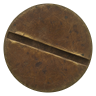
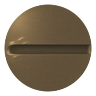
Radar worn parts (SPEC-PARTS, assets-gpt-2): seven meter frames and toggle pairs bound to channels A-G by id, shared meter glass, PPI bezel (drawn rim and bevel dropped under it, ticks after it) and glass, nixie shell and glass; the 11 stock plates replaced; three non-glowing colours capped at the d
- 26 new pictures in assets/radar and MATERIAL_FILES (43 in all), the 11 stock files GPT's approved screen used over the same names; build-local ships them
- CHANNEL_PARTS: vocals..drums -> frame / up / down (VOX's toggles have no -a); the toggle picture follows up = !off, hit areas and out.levers unchanged; out.toggles names the picture drawn
- each part falls back to its old drawing when its picture is not in (meter: its frame; toggle: both pictures; bezel; glass; shell; nixie glass)
- brightness cap at #e7dfc4 for what does not glow: first bezel tick #f0ead2 -> #e4dfc8, balance horizon #e8e2cc -> #e5dfc9, fifths key names #ece5cc -> #e5dfc6
- tests: radar-parts.test.cjs (mapping, toggling, bezel order, nixie cells, fallback), materials count 17 -> 43

diff --git a/source/scoreview/score-radar.js b/source/scoreview/score-radar.js
@@ -163,7 +163,21 @@
     plateKeys: 'plate-keys.png', plateTele: 'plate-teleprinter.png', paperDial: 'paper-dial.png', paperTape: 'paper-tape.png',
     screwSlot: 'screw-slot.png', screwCross: 'screw-cross.png', screwBrass: 'screw-brass.png', glass: 'glass-smudge.png',
     // Batch 4: tape stock for the hand-written names, the calibration tag, the cover plate over a removed dial.
-    stickerA: 'sticker-a.png', stickerB: 'sticker-b.png', stickerC: 'sticker-c.png', tagCal: 'tag-cal.png', coverPlate: 'cover-plate.png'});
+    stickerA: 'sticker-a.png', stickerB: 'sticker-b.png', stickerC: 'sticker-c.png', tagCal: 'tag-cal.png', coverPlate: 'cover-plate.png',
+    // Batch 5 (SPEC-PARTS, assets-gpt-2/HANDOFF.md): the parts worn by hands in use. A meter frame and a toggle pair
+    // for each of the seven channels (the channel keeps its own wear: GUITAR most, DRUMS least), one meter glass shared
+    // by all seven, the PPI bezel and its glass, a nixie shell and glass laid over each tube digit.
+    ...Object.fromEntries(['a', 'b', 'c', 'd', 'e', 'f', 'g'].flatMap((v, i) => {
+      const k = v.toUpperCase(), suffix = i ? '-' + v : '';   // VOX's toggle files have no '-a'
+      return [['meterFrame' + k, `meter-frame-${v}.png`], ['toggleUp' + k, `toggle-up${suffix}.png`], ['toggleDown' + k, `toggle-down${suffix}.png`]];
+    })),
+    meterGlass: 'meter-glass.png', ppiBezel: 'ppi-bezel.png', ppiGlass: 'ppi-glass.png', nixieShell: 'nixie-shell.png', nixieGlass: 'nixie-glass.png'});
+  // The physical channel each frame and toggle pair belongs to (A to G, by channel id): they follow the channel through
+  // song changes, volume and mute.
+  const CHANNEL_PARTS = Object.freeze(Object.fromEntries(CATS.map((cat, i) => {
+    const k = 'ABCDEFG'[i];
+    return [cat.id, Object.freeze({frame: 'meterFrame' + k, up: 'toggleUp' + k, down: 'toggleDown' + k})];
+  })));
   const MATERIALS = {};
   // The layout audit's record (null when off) and the frame's placement, see write().
   let auditSink = null, auditView = null, auditClip = null;
@@ -872,6 +886,19 @@
       p.drawImage(smudge, sx, sy, cw, ch, x, y, cw / k, ch / k);
       p.restore();
     }
+    // The shadow a worn meter frame's lip throws on the paper (under the printing and the needle), from the same
+    // upper-left light: 4.3 deep at the top, 3.2 left, 2.1 bottom, 2 right.
+    function paperLip(x, y, w, h) {
+      p.save(); p.beginPath(); p.roundRect(x, y, w, h, 2); p.clip();
+      for (const [x0, y0, x1, y1, rx, ry, rw, rh, density] of [
+        [x, y, x, y + 4.3, x, y, w, 4.3, .62], [x, y, x + 3.2, y, x, y, 3.2, h, .46],
+        [x, y + h, x, y + h - 2.1, x, y + h - 2.1, w, 2.1, .33], [x + w, y, x + w - 2, y, x + w - 2, y, 2, h, .28]]) {
+        const g = p.createLinearGradient(x0, y0, x1, y1);
+        g.addColorStop(0, `rgba(29,23,17,${density})`); g.addColorStop(.42, `rgba(30,23,17,${density * .48})`); g.addColorStop(1, 'rgba(29,23,17,0)');
+        p.fillStyle = g; p.fillRect(rx, ry, rw, rh);
+      }
+      p.restore();
+    }
     function lamp(x, y, r, light, hot = C.amberHot, warm = C.amber) {
       if (auditSink) { const [cx, cy] = toDesign(x, y); auditShape('lamp', {cx, cy, r}); }
       // The housing throws a small shadow, its rim catches the light; the lens is dark glass when off.
@@ -902,9 +929,23 @@
     function tubeBase(x, y, w, h, pattern, label) {
       bed(x, y, w, h, 4, C.tubeGlass, '#4b3a2c', 1.2);
       tubeDigits(x + w / 2, y + h / 2, pattern, 'off');
+      tubeParts(x + w / 2, y + h / 2, pattern, 'nixieShell');
       write(label, x + w / 2, y + h + 12, 12, C.stampDim, 'stamp', 'center');
     }
-    function tube(x, y, w, h, value) { tubeDigits(x + w / 2, y + h / 2, value, 'on'); }
+    function tube(x, y, w, h, value) { tubeDigits(x + w / 2, y + h / 2, value, 'on'); tubeParts(x + w / 2, y + h / 2, value, 'nixieGlass'); }
+    // A tube's shell (over the unlit stacks, in the base) or glass (over the lit digit, live), one per digit cell
+    // (19.6 x 42), the separators only advancing; laid out as tubeDigits lays out the same string.
+    function tubeParts(cx, cy, value, part) {
+      const image = MATERIALS[part];
+      if (!image) return;
+      const k = TUBE_PX / 30, cell = 21 * k, dotCell = 6 * k, chars = Array.from(value);
+      let left = cx - chars.reduce((n, ch) => n + (ch === '·' || ch === ':' ? dotCell : cell), 0) / 2;
+      for (const ch of chars) {
+        if (ch === '·' || ch === ':') { left += dotCell; continue; }
+        p.drawImage(image, left, cy - 21, cell, 42);
+        left += cell;
+      }
+    }
     // The digits of a reading centred at (cx, cy). 'off': every digit position shows its whole stack of unlit
     // cathodes (0-9), separators their dots; 'on': the lit cathode, a thin bright core with a narrow glow around it.
     function tubeDigits(cx, cy, value, state) {
@@ -1247,13 +1288,17 @@
         write('MOD. LVL-7', 300, 146, 12, C.stampFaint, 'stamp', 'right', 0, '', 'alphabetic');
         CATS.forEach((cat, i) => {
           const y = 163 + i * 85, {cx, cy, r, a0, a1} = dial(y);
-          // The meter: a paper face filling its box, a red zone at the top of the scale.
-          cast(box(x - 2, y - 2, w + 4, h + 4, 4), .9);
+          const framed = Boolean(MATERIALS[CHANNEL_PARTS[cat.id].frame]);
+          // The meter: a paper face filling its box, a red zone at the top of the scale. With its worn frame (laid in
+          // 'over') the frame's shadow is wider and softer, and the paper gets a contact shadow under the frame's lip.
+          if (framed) cast(box(x - 3.5, y - 3.5, w + 7, h + 7, 4), .65);
+          else cast(box(x - 2, y - 2, w + 4, h + 4, 4), .9);
           rounded(x - 2, y - 2, w + 4, h + 4, 4, '#1c1d18');
           edge(box(x - 1.4, y - 1.4, w + 2.8, h + 2.8, 4), x - 2, y - 2, w + 4, h + 4, true, 1.2);
           p.save(); p.beginPath(); p.roundRect(x, y, w, h, 2); p.clip(); dialFace(i, x, y, w, h); p.restore();
           rounded(x + .5, y + .5, w - 1, h - 1, 2, null, C.dialEdge, 1);
           inset(box(x, y, w, h, 2), 1);
+          if (framed) paperLip(x, y, w, h);
           p.save(); p.beginPath(); p.rect(x, y, w, h); p.clip();
           p.beginPath(); p.arc(cx, cy, r, a0, a1); p.strokeStyle = C.dialInk; p.lineWidth = 1.2; p.stroke();
           p.beginPath(); p.arc(cx, cy, r, a0 + (a1 - a0) * METER_AMBER, a0 + (a1 - a0) * METER_RED); p.strokeStyle = C.amberInk; p.lineWidth = 4; p.stroke();
@@ -1298,6 +1343,13 @@
             out.crayon = (out.crayon || []).concat({channel: cat.id, at: +mark.mean.toFixed(3)});
           }
           glass(x, y, w, h, GLASS_CROPS[i][0], GLASS_CROPS[i][1]);
+          // The channel's own frame (3.5 out on every side: neighbouring frames keep 4 of panel between them), then
+          // the shared meter glass over the face, both before the name tape.
+          const frame = MATERIALS[CHANNEL_PARTS[cat.id].frame];
+          if (frame) {
+            p.drawImage(frame, x - 3.5, y - 3.5, w + 7, h + 7);
+            if (MATERIALS.meterGlass) p.drawImage(MATERIALS.meterGlass, x, y, w, h);
+          }
           // The name on tape, stuck on the face's top-left corner.
           p.save(); p.translate(x + 4, y + 3); p.rotate(TAPE_ANGLES[i % TAPE_ANGLES.length]);
           font('marker', 12, 'bold');
@@ -1332,12 +1384,23 @@
           });
         } else lamp(224, y + 27, 9, off ? 0 : 1);
         const lx = 246, ly = y + 12, lw = 24, lh = 50, up = !off;
-        const knob = up ? ly + 13 : ly + lh - 13;
-        p.beginPath(); p.moveTo(lx + lw / 2, ly + lh / 2); p.lineTo(lx + lw / 2, knob);
-        p.strokeStyle = '#9a9a8e'; p.lineWidth = 5; p.lineCap = 'round'; p.stroke(); p.lineCap = 'butt';
-        if (depth > 0) circle(lx + lw / 2 + 1.3 * depth, knob + 2 * depth, 8.2, `rgba(0,0,0,${Math.min(.6, .35 * depth)})`);
-        circle(lx + lw / 2, knob, 8, '#d6d4c8', '#3a3a33', 1);
-        if (depth > 0) circle(lx + lw / 2 - 2.6, knob - 2.8, 2.8, `rgba(255,255,255,${.55 * Math.min(1, depth)})`);
+        // The channel's own toggle, up (IN) or down (OUT): one picture each way, both on the same pivot; ball centres
+        // at (258, y + 25) and (258, y + 49). Without both pictures, the drawn lever.
+        const parts = CHANNEL_PARTS[cat.id], upImage = MATERIALS[parts.up], downImage = MATERIALS[parts.down];
+        if (upImage && downImage) {
+          p.save();
+          p.shadowColor = 'rgba(0,0,0,.25)'; p.shadowOffsetX = unit; p.shadowOffsetY = 1.4 * unit; p.shadowBlur = unit;
+          p.drawImage(up ? upImage : downImage, lx, ly, lw, lh);
+          p.restore();
+          (out.toggles = out.toggles || {})[cat.id] = up ? parts.up : parts.down;
+        } else {
+          const knob = up ? ly + 13 : ly + lh - 13;
+          p.beginPath(); p.moveTo(lx + lw / 2, ly + lh / 2); p.lineTo(lx + lw / 2, knob);
+          p.strokeStyle = '#9a9a8e'; p.lineWidth = 5; p.lineCap = 'round'; p.stroke(); p.lineCap = 'butt';
+          if (depth > 0) circle(lx + lw / 2 + 1.3 * depth, knob + 2 * depth, 8.2, `rgba(0,0,0,${Math.min(.6, .35 * depth)})`);
+          circle(lx + lw / 2, knob, 8, '#d6d4c8', '#3a3a33', 1);
+          if (depth > 0) circle(lx + lw / 2 - 2.6, knob - 2.8, 2.8, `rgba(255,255,255,${.55 * Math.min(1, depth)})`);
+        }
 
         out.levers.push({channel: cat.id, x: lx - 4, y: ly - 4, width: lw + 8, height: lh + 8, up, clickable: has && cat.id !== 'other'});
       });
@@ -1359,15 +1422,24 @@
         panel(334, 116, 656 + wide / 2, 618, 'plateRadar', ['cross', 'cross', 'brass', 'cross']);
         // Bezel with a tick per beat (sixteen to a turn of four 4/4 bars) and finer ones between.
         cast(disk(cx, cy, bezel), 2.4);
-        circle(cx, cy, bezel, '#1d1e19', '#4a4c42', 2);
-        edge(disk(cx, cy, bezel - 1.5), cx - bezel, cy - bezel, 2 * bezel, 2 * bezel, true, 3, 1.1);
+        if (MATERIALS.ppiBezel) {
+          // The worn bezel (matte on top, rubbed bright along the lower edge where hands rest): only the dark fill
+          // under it, no drawn rim and no bevel highlight (either would show through the picture's soft edge); the
+          // ticks go on over the paint.
+          circle(cx, cy, bezel, '#1d1e19');
+          p.drawImage(MATERIALS.ppiBezel, cx - bezel, cy - bezel, 2 * bezel, 2 * bezel);
+        } else {
+          circle(cx, cy, bezel, '#1d1e19', '#4a4c42', 2);
+          edge(disk(cx, cy, bezel - 1.5), cx - bezel, cy - bezel, 2 * bezel, 2 * bezel, true, 3, 1.1);
+        }
         const perTurn = bars ? bars.perBar * 4 : 16;
-        // Four ticks to a beat: long on the beat, medium on the eighth, short on the sixteenth.
+        // Four ticks to a beat: long on the beat, medium on the eighth, short on the sixteenth. Nothing that does not glow
+        // is brighter than the dial paper (#e7dfc4, SPEC-PARTS): the first tick was #f0ead2.
         for (let k = 0; k < perTurn * 4; k++) {
           const a = -Math.PI / 2 + k / (perTurn * 4) * Math.PI * 2, long = k % 4 === 0, mid = k % 2 === 0, first = k === 0;
           const r0 = bezel - 4, r1 = bezel - (first ? 30 : long ? 24 : mid ? 17 : 11);
           p.beginPath(); p.moveTo(cx + Math.cos(a) * r0, cy + Math.sin(a) * r0); p.lineTo(cx + Math.cos(a) * r1, cy + Math.sin(a) * r1);
-          p.strokeStyle = first ? '#f0ead2' : long ? '#d8d2bb' : mid ? '#bdb7a0' : '#9a957f'; p.lineWidth = first ? 4 : long ? 3 : mid ? 2.2 : 1.6; p.stroke();
+          p.strokeStyle = first ? '#e4dfc8' : long ? '#d8d2bb' : mid ? '#bdb7a0' : '#9a957f'; p.lineWidth = first ? 4 : long ? 3 : mid ? 2.2 : 1.6; p.stroke();
         }
         const g = p.createRadialGradient(cx, cy, 0, cx, cy, screen);
         g.addColorStop(0, C.screenHi); g.addColorStop(1, C.screen);
@@ -1421,6 +1493,8 @@
         p.restore();
       } else if (pass === 'over') {
         glass(cx - screen, cy - screen, 2 * screen, 2 * screen, 0, 0, true, 512 / (2 * screen));
+        // The tube face's own reflection, clear over the middle (radius 180), before the mouth's inner shadow.
+        if (MATERIALS.ppiGlass) p.drawImage(MATERIALS.ppiGlass, cx - screen, cy - screen, 2 * screen, 2 * screen);
         inset(disk(cx, cy, screen - 1.5), 2.6);
       } else {
         p.save(); circle(cx, cy, screen - 1, null); p.clip();
@@ -1664,7 +1738,7 @@
       p.translate(cx, cy); p.rotate(tilt);
       rect(-r - 10, -r - 10, 2 * r + 20, r + 10, '#3d4c5a');
       rect(-r - 10, 0, 2 * r + 20, r + 10, '#4a3f31');
-      p.beginPath(); p.moveTo(-r - 10, 0); p.lineTo(r + 10, 0); p.strokeStyle = '#e8e2cc'; p.lineWidth = 1.5; p.stroke();
+      p.beginPath(); p.moveTo(-r - 10, 0); p.lineTo(r + 10, 0); p.strokeStyle = '#e5dfc9'; p.lineWidth = 1.5; p.stroke();
       p.restore();
       p.beginPath(); p.moveTo(cx - 26, cy); p.lineTo(cx - 8, cy); p.moveTo(cx + 8, cy); p.lineTo(cx + 26, cy);
       p.strokeStyle = C.amber; p.lineWidth = 3; p.stroke(); circle(cx, cy, 3, C.amber);
@@ -1697,7 +1771,7 @@
         const v = light[k];
         // The rim carries the brightest amber; the face stays dark enough for the ivory paint.
         circle(x, y, 14, mixHex('#2b2620', '#835023', v), mixHex('#14120d', C.amber, v), 1.5);
-        write(name, x, y, 15, '#ece5cc', 'plate', 'center', 0, '', 'cap');
+        write(name, x, y, 15, '#e5dfc6', 'plate', 'center', 0, '', 'cap');
       });
       const scheme = env.options.radarWheel !== 'dark' ? {face: '#d8d0b6', ink: '#1d1b15', shade: 'rgba(40,30,15,'} : {face: '#16150f', ink: '#ece5cc', shade: 'rgba(0,0,0,'};
       const WIN_H = 34, WHEEL_R = 21, PITCH = 23;
@@ -2427,7 +2501,7 @@
   }
   const LEADS = Object.freeze([.2, .4, .7]);
   const materials = () => Object.keys(MATERIALS).filter(key => MATERIALS[key]);
-  root.XinScoreRadar = Object.freeze({create, ready, materials, MATERIAL_FILES, LEADS, audit, audited: () => auditSink, chordParts, sectionKind,
+  root.XinScoreRadar = Object.freeze({create, ready, materials, MATERIAL_FILES, CHANNEL_PARTS, LEADS, audit, audited: () => auditSink, chordParts, sectionKind,
     // The chord drums' plan, for tests and scans: wheels.plan(model.chords) then wheels.at(plan, k, t).
     wheels: Object.freeze({cells: WHEELS.map(w => w.cells), speed: WHEEL_SPEED, detent: WHEEL_DETENT,
       plan: rows => planWheels(chordTimeline(rows)), at: wheelAt}), CATS, QUALITY, SECTION_LAMPS, CAUTION, RULES, DESIGN, FONTS});
